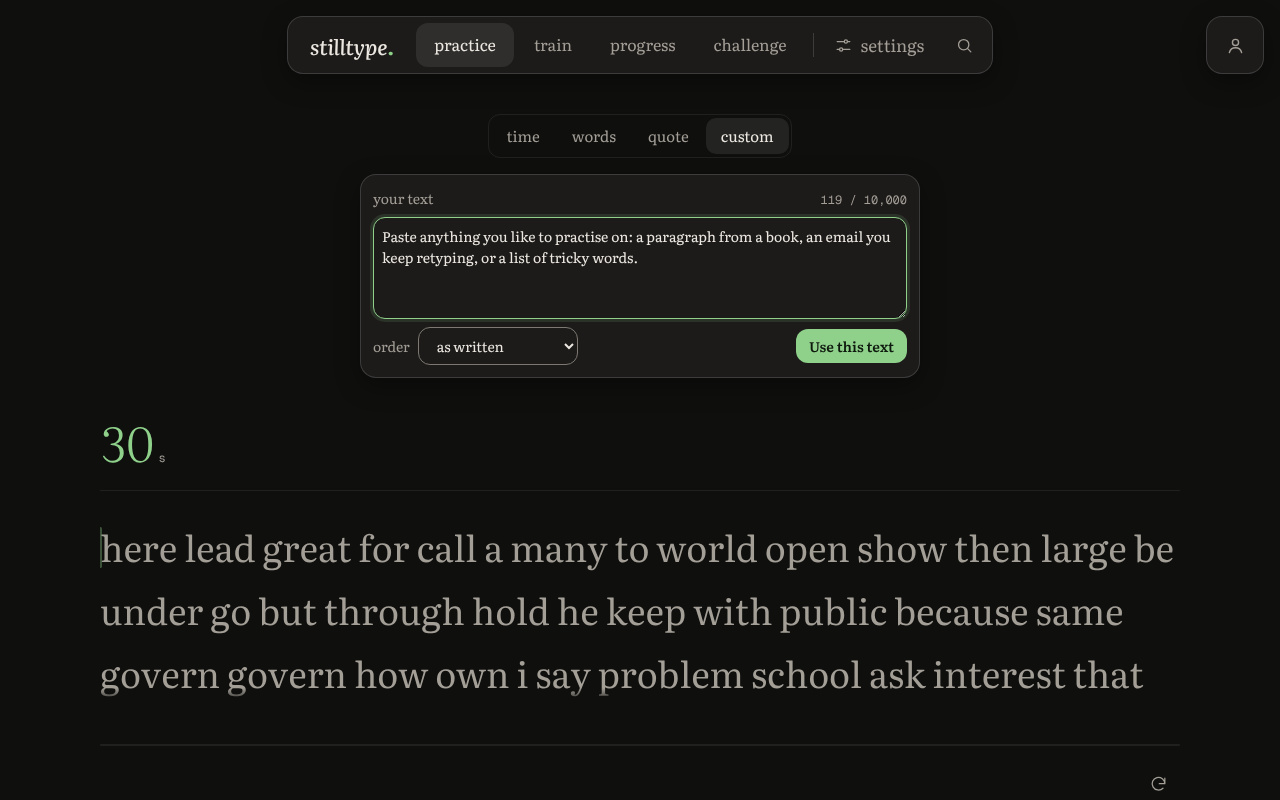
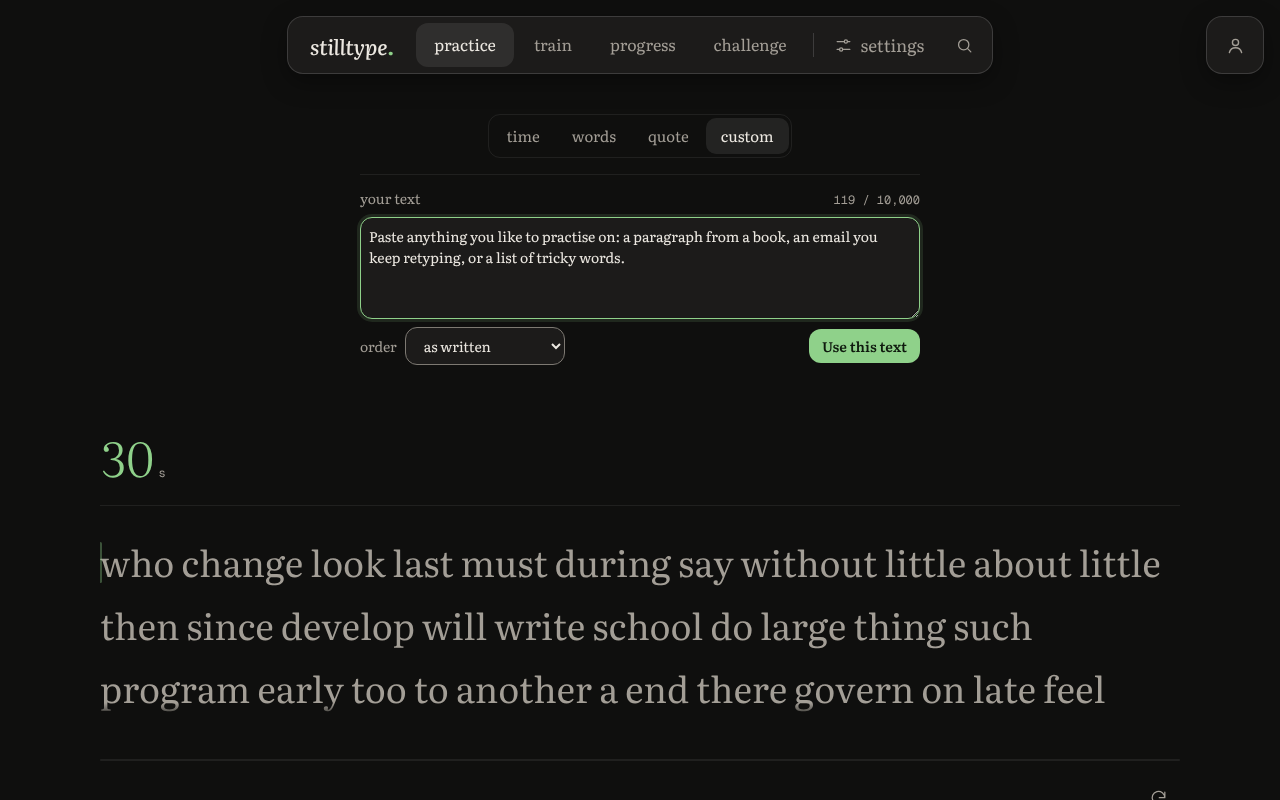
Open the custom section, keep it on Run again, refuse IME text
The custom setup is now an open section on a hairline rule instead of a
raised box. Run again after a custom run resets the same custom session.
Text with CJK, kana, Hangul or full-width characters is refused with a
visible message, since composition input can't be scored.

Claude-Session: https://claude.ai/code/session_01SaBNo9RHRaTR8cCUjK1iLD

diff --git a/src/app.js b/src/app.js
@@ -86,6 +86,10 @@ function customPassage() {
   return { id: null, text: picked.join(' '), fresh: false };
 }
 
+// Scripts typed through an IME (CJK, kana, Hangul, Yi, full-width forms) can't be scored, because composition
+// input is refused while typing, so a passage containing them is rejected before a run starts.
+const IME_SCRIPT = /[\u1100-\u11FF\u2E80-\u2FFF\u3000-\u303F\u3040-\u31FF\u3200-\u33FF\u3400-\u4DBF\u4E00-\u9FFF\uA000-\uA4CF\uA960-\uA97F\uAC00-\uD7FF\uF900-\uFAFF\uFE30-\uFE4F\uFF00-\uFFEF]/;
+
 const customOrderLabel = (order) => ({ shuffled: 'shuffled words', random: 'random words' }[order] || 'as written');
 
 function emptyProfile() {
@@ -1775,7 +1779,7 @@ function bindEvents() {
     if (practice) resetSession('practice', { focus: true });
   });
   $('mode-custom').addEventListener('click', () => openCustom(!customOpen));
-  $('custom-text').addEventListener('input', updateCustomCount);
+  $('custom-text').addEventListener('input', () => { updateCustomCount(); setCustomError(); });
   $('custom-use').addEventListener('click', useCustomText);
   document.querySelectorAll('[data-mode]').forEach((button) => button.addEventListener('click', () => {
     customOpen = false;
@@ -1840,7 +1844,7 @@ function bindEvents() {
     }
   });
   $('restart-button').addEventListener('click', () => resetSession(sessionKind, { focus: true }));
-  $('run-again').addEventListener('click', () => sessionKind === 'daily' ? startDaily() : resetSession('practice', { focus: true }));
+  $('run-again').addEventListener('click', () => sessionKind === 'daily' ? startDaily() : resetSession(sessionKind === 'custom' ? 'custom' : 'practice', { focus: true }));
   $('progress-conditions').addEventListener('change', renderHistory);
   $('progress-period').addEventListener('change', renderHistory);
   $('training-conditions').addEventListener('change', renderTraining);
@@ -1946,12 +1950,18 @@ function updateCustomCount() {
   $('custom-count').textContent = `${$('custom-text').value.length.toLocaleString('en')} / ${CUSTOM_MAX.toLocaleString('en')}`;
 }
 
+function setCustomError(message = '') {
+  $('custom-error').textContent = message;
+  $('custom-text').setAttribute('aria-invalid', String(Boolean(message)));
+}
+
 function openCustom(open = true) {
   customOpen = open;
   if (open) {
     if (!$('custom-text').value) $('custom-text').value = prefs.customText || '';
     $('custom-order').value = prefs.customOrder;
     updateCustomCount();
+    setCustomError();
   }
   setModeControls();
   if (open) $('custom-text').focus();
@@ -1960,8 +1970,11 @@ function openCustom(open = true) {
 // Signed in, the text is kept with the other preferences; a guest's preferences live only in memory.
 function useCustomText() {
   const text = normalizeCustomText($('custom-text').value);
-  if (!text) {
-    announce('Add some text first.');
+  const error = !text ? 'Add some text first.'
+    : IME_SCRIPT.test(text) ? 'Chinese, Japanese and Korean characters need an input method, which isn’t scored. Remove them to continue.'
+      : '';
+  setCustomError(error);
+  if (error) {
     $('custom-text').focus();
     return;
   }

diff --git a/e2e/custom-text.spec.js b/e2e/custom-text.spec.js
@@ -20,6 +20,12 @@ test('custom text runs under its own condition and never becomes a best', async 
   await expect(page.locator('#result-conditions')).toContainText('custom text');
   await expect(page.locator('#result-delta')).toContainText('not counted toward your best');
 
+  // Run again keeps the custom text rather than falling back to a generated passage.
+  await page.locator('#run-again').click();
+  await expect(page.locator('body')).toHaveAttribute('data-view', 'practice');
+  await expect(page.locator('#condition-line')).toContainText('custom text');
+  expect(await passageText(page)).toBe(TEXT);
+
   // Back on a normal test, nothing was recorded as a personal best.
   await page.locator('.nav-item[data-nav="practice"]').click();
   await page.locator('#mode-time').click();
@@ -45,6 +51,22 @@ test('emoji are dropped and the length cap holds after punctuation expands', asy
   await page.locator('#custom-text').fill('…'.repeat(10000));
   await page.locator('#custom-use').click();
   expect((await passageText(page)).length).toBe(10000);
+});
+
+test('characters typed through an input method are refused with a message', async ({ page }) => {
+  await openApp(page);
+  await page.locator('#mode-custom').click();
+  await page.locator('#custom-text').fill('hello 世界');
+  await page.locator('#custom-use').click();
+  await expect(page.locator('#custom-error')).toContainText('input method');
+  await expect(page.locator('#custom-text')).toHaveAttribute('aria-invalid', 'true');
+  await expect(page.locator('#custom-options')).toBeVisible();
+  await expect(page.locator('#condition-line')).not.toContainText('custom text');
+
+  await page.locator('#custom-text').fill('hello world');
+  await expect(page.locator('#custom-error')).toHaveText('');
+  await page.locator('#custom-use').click();
+  expect(await passageText(page)).toBe('hello world');
 });
 
 // Committed screenshots are refreshed only with SCREENSHOTS=1; a normal run writes to the test's output folder.

diff --git a/src/styles.css b/src/styles.css
@@ -787,19 +787,17 @@ kbd {
 
 .quote-options .input { width: 128px; height: 38px; font-size: 14px; }
 
-/* Bring your own text: an opaque raised panel, styled like the settings popover. */
+/* Bring your own text: an open section on a hairline rule, not a box (only floating objects are raised). */
 .custom-options {
   width: min(560px, 100%);
   margin: calc(var(--space-10) * -1) auto var(--space-10);
-  padding: var(--space-3);
+  padding-top: var(--space-3);
   display: grid;
   gap: var(--space-2);
-  border: 1px solid var(--hairline-strong);
-  border-radius: var(--radius-lg);
-  background: var(--raised);
-  box-shadow: var(--shadow-float);
+  border-top: 1px solid var(--hairline);
   animation: fade-in var(--dur-quick) var(--ease-out);
 }
+.custom-options .field-error { margin: 0; }
 .custom-label { display: flex; justify-content: space-between; align-items: baseline; color: var(--muted); font-size: var(--text-label); }
 .custom-count { font: var(--text-fine)/1 var(--font-mono); font-variant-numeric: tabular-nums; }
 .custom-textarea { width: 100%; min-height: 96px; height: auto; padding: var(--space-2); resize: vertical; font-size: var(--text-label); line-height: 1.5; }

diff --git a/index.html b/index.html
@@ -174,7 +174,7 @@
           <label for="custom-text" class="custom-label">your text
             <span id="custom-count" class="custom-count">0 / 10,000</span>
           </label>
-          <textarea id="custom-text" class="input custom-textarea" maxlength="10000" rows="4" spellcheck="false" placeholder="Paste or type any passage"></textarea>
+          <textarea id="custom-text" class="input custom-textarea" maxlength="10000" rows="4" spellcheck="false" placeholder="Paste or type any passage" aria-describedby="custom-count custom-error"></textarea>
           <div class="custom-actions">
             <label for="custom-order">order
               <select id="custom-order" class="input select">
@@ -185,6 +185,7 @@
             </label>
             <button id="custom-use" class="btn btn-primary btn-sm" type="button">Use this text</button>
           </div>
+          <p id="custom-error" class="field-error" role="alert"></p>
         </div>
 
         <form id="typing-form" class="typing-form" autocomplete="off">
